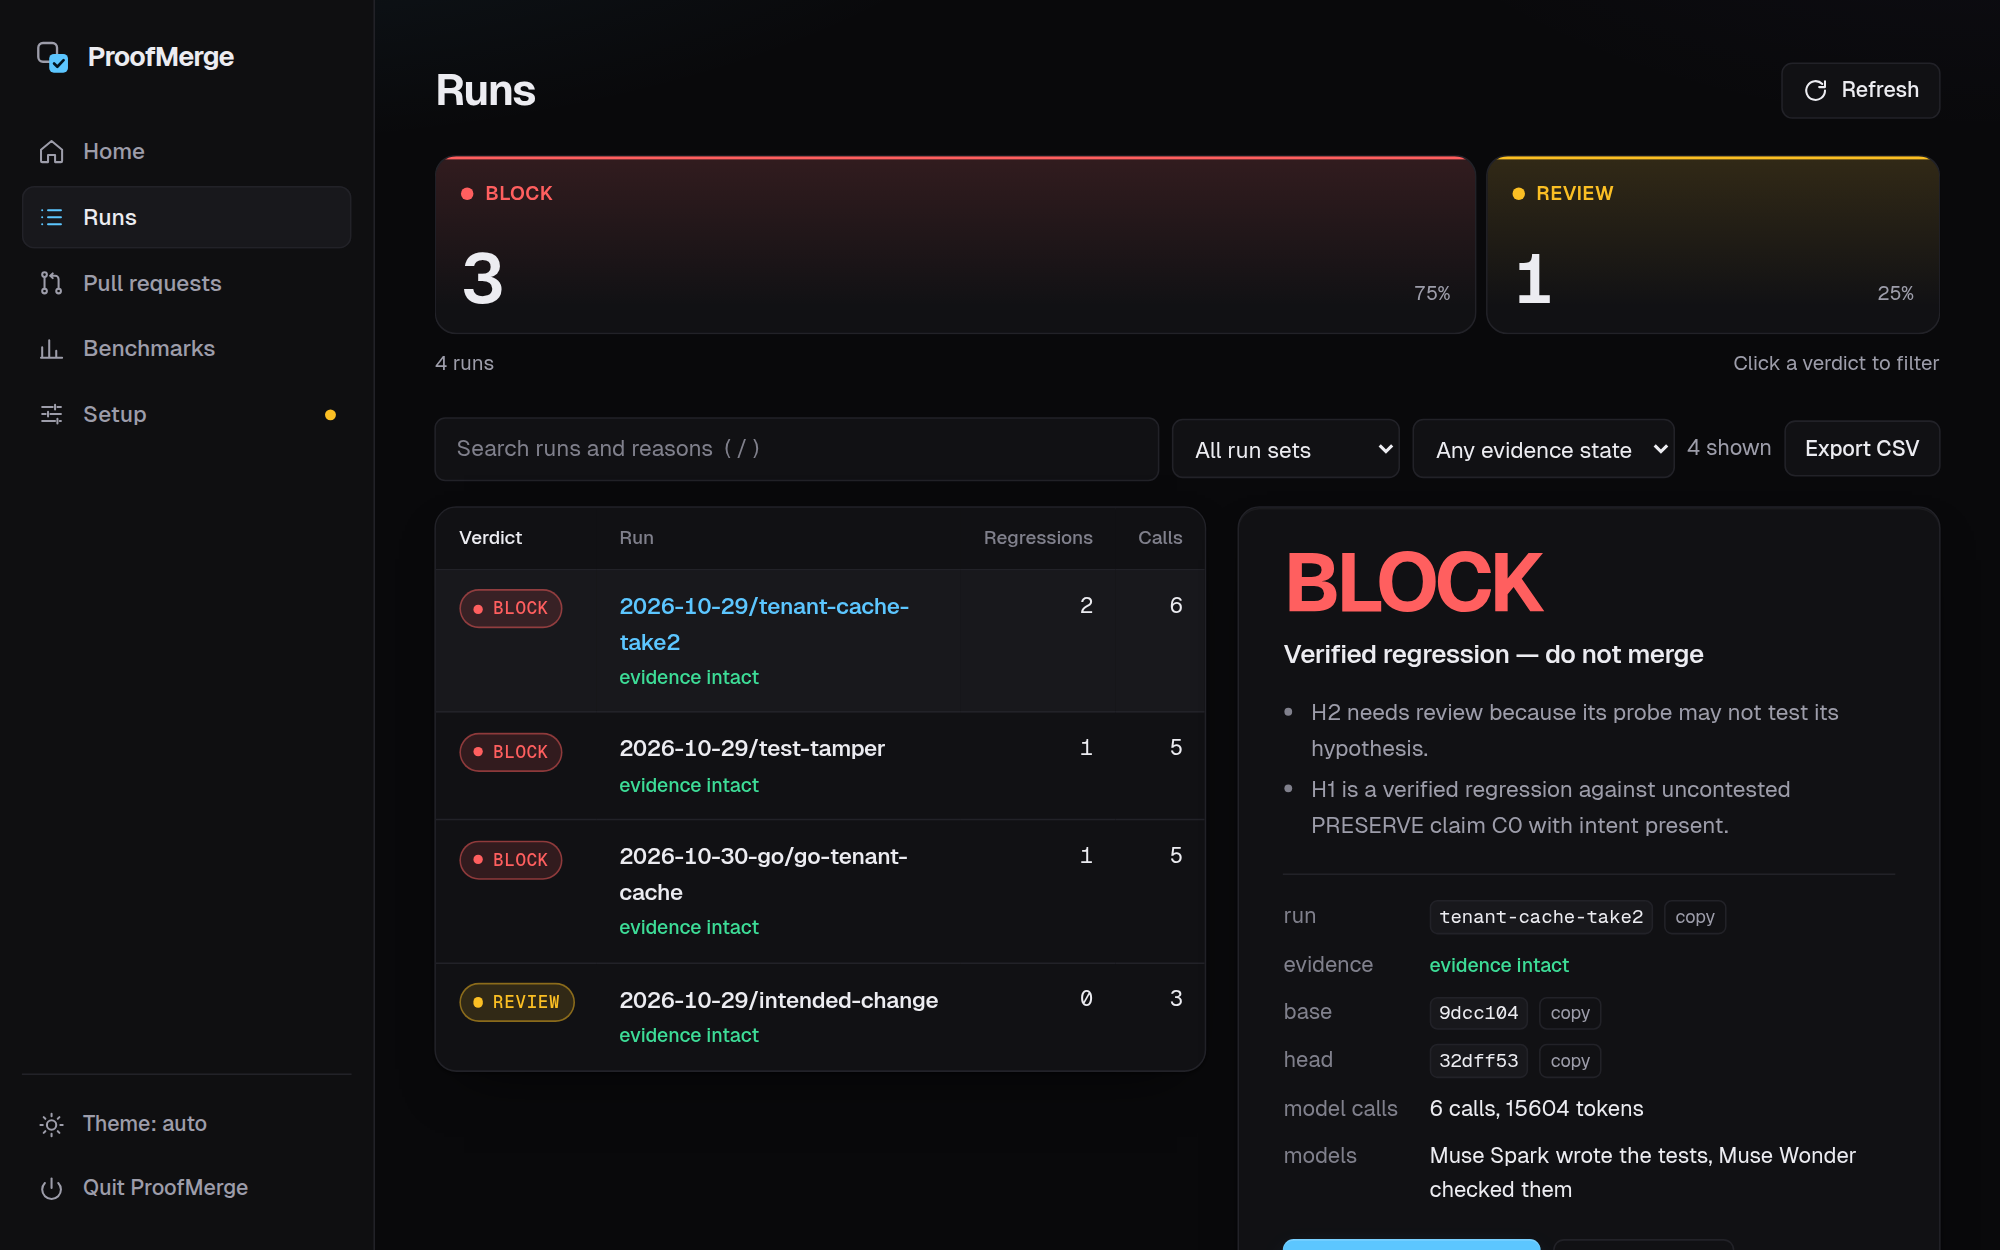
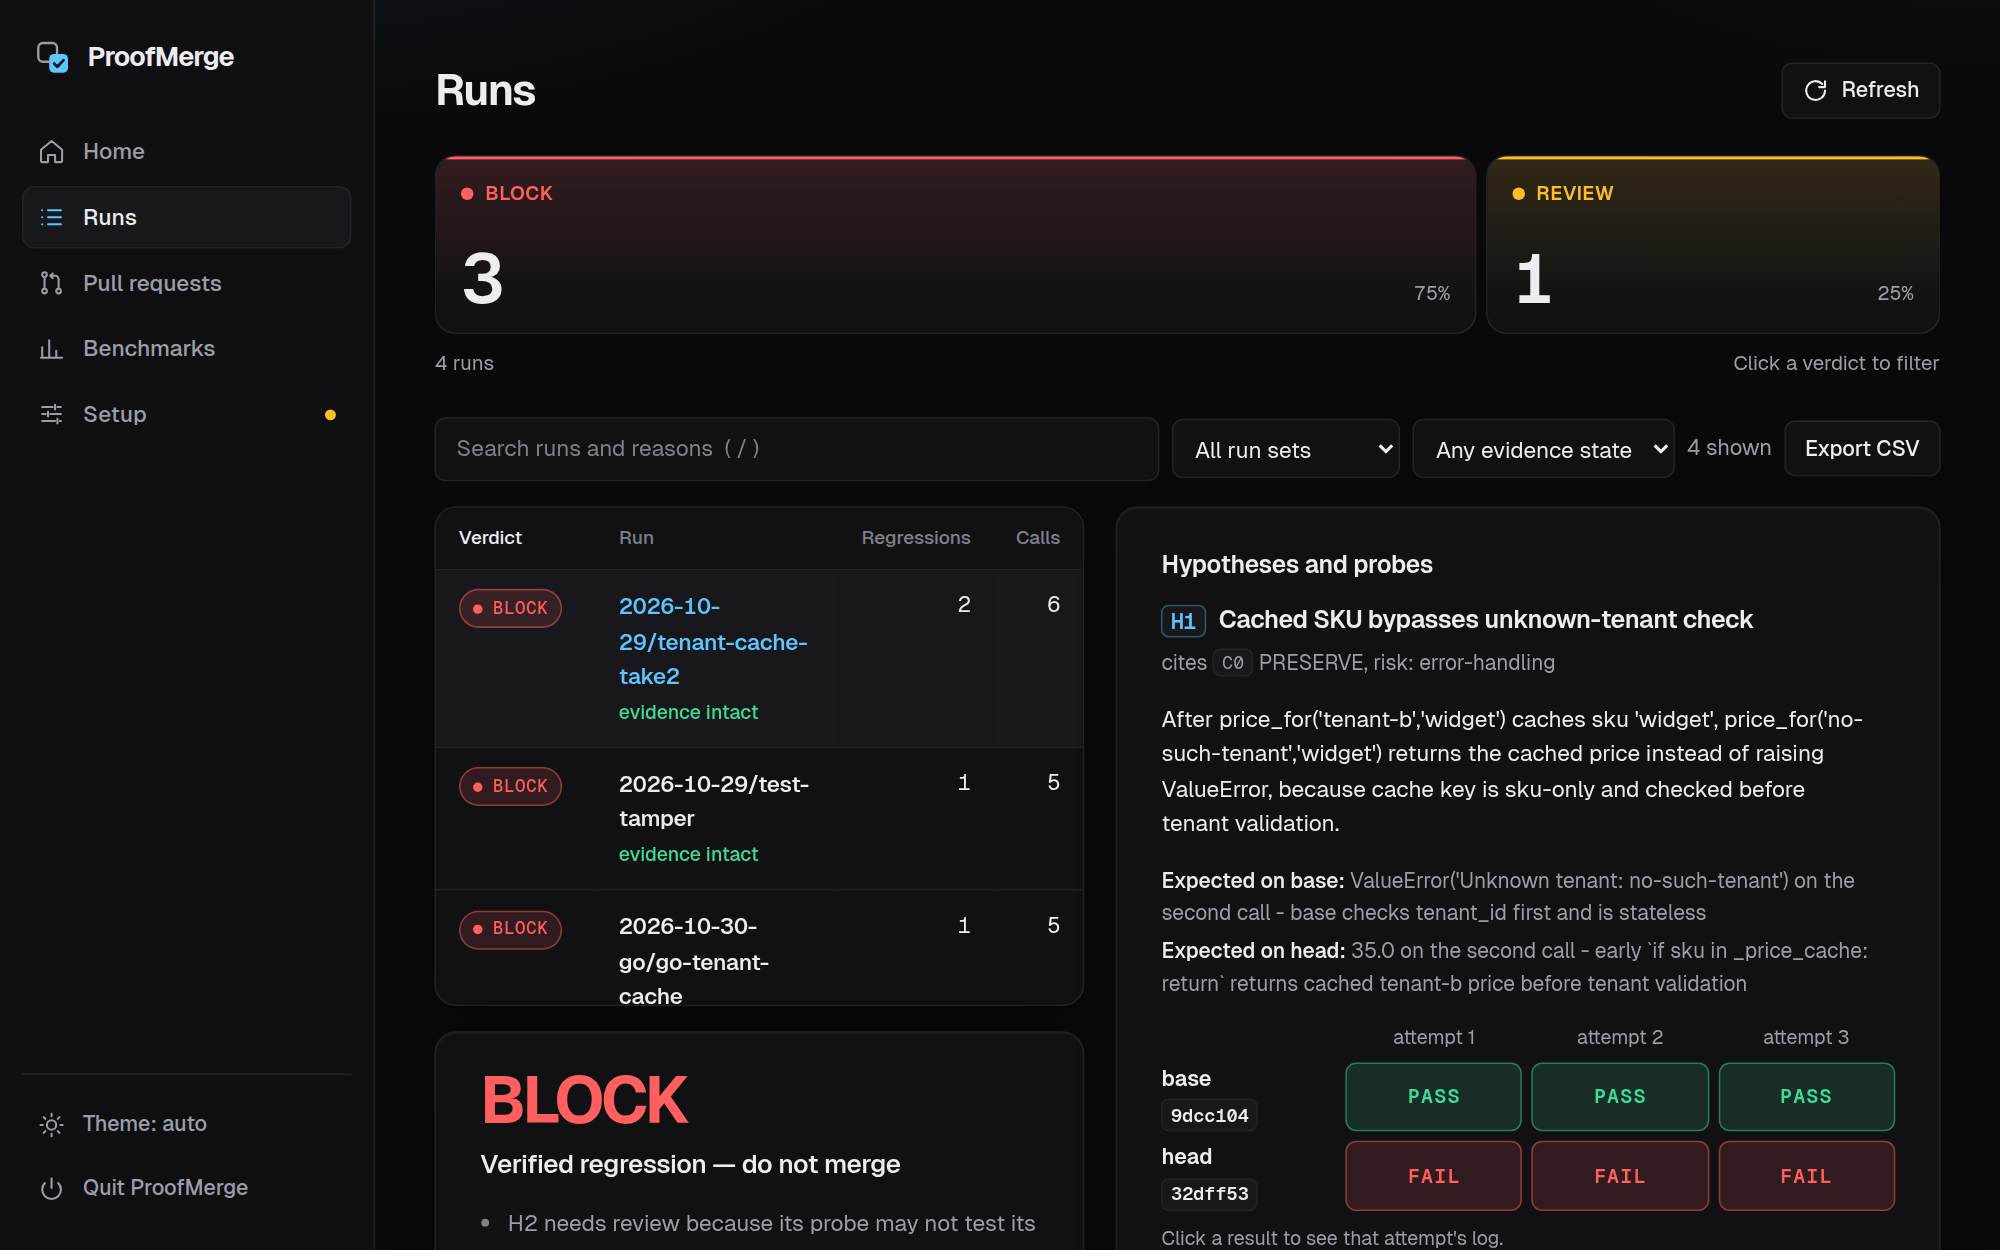
T73: Runs page puts the verdict under the list and the evidence beside it
With a short run list the left half of the Runs page stood empty beside a
long detail. The summary now sits under the list and stays in view; the
evidence takes the right column. Everything stacks below 64rem.

Claude-Session: https://claude.ai/code/session_01YGZU6qzXEgTvzWYzbWXsex

diff --git a/src/proofmerge/dashboard_static/legacy/app.js b/src/proofmerge/dashboard_static/legacy/app.js
@@ -280,7 +280,7 @@
     const models = writer === checker ? `${writer} wrote and checked the tests` : `${writer} wrote the tests, ${checker} checked them`;
     // The id is relative to the dashboard folder, so the command uses the absolute path.
     const replay = `proofmerge replay '${summary.proof_path.replaceAll("'", "'\\''")}'`;
-    return html`<aside class="panel detail" aria-label=${"Run " + id}>
+    return html`<${React.Fragment}><aside class="panel detail" aria-label=${"Run " + id}>
       <div class="detail-head">
         <span class=${"decision " + decision}>${decision}</span>
         <strong>${HEADLINE[decision]}</strong>
@@ -310,6 +310,8 @@
       </div>
       <details class="cli"><summary><${Icon} name="terminal" size=${15} />Terminal command</summary>
         <pre>${replay}</pre><${Copy} text=${replay} label="replay command" /></details>
+    </aside>
+    <section class="panel evidence" aria-label=${"Evidence for run " + id}>
       <h2>Hypotheses and probes</h2>
       ${proof.hypotheses.hypotheses.length ? proof.hypotheses.hypotheses.map((h) => html`
         <${Hypothesis} key=${h.id} h=${h} proof=${proof} probe=${probes[h.id]} failure=${failures[h.id]} logs=${logs || {}} />`)
@@ -325,7 +327,7 @@
         <div>${c.statement}</div>
         ${c.source_quote ? html`<blockquote>${c.source_quote}</blockquote>` : html`<div class="muted">implicit claim — not stated in the intent text</div>`}
       </div>`)}
-    </aside>`;
+    </section><//>`;
   }
 
   function RunsView({ index, selected, onSelect }) {
@@ -389,7 +391,7 @@
         <span class="muted" style=${{ fontSize: ".88rem" }}>${runs.length} shown</span>
         <button class="ghost" type="button" onClick=${exportCsv} disabled=${!runs.length}>Export CSV</button>
       </div>
-      <div class="split">
+      <div class="split runs-split">
         ${runs.length ? html`<${RunsTable} runs=${runs} selected=${selected} onSelect=${pick} sort=${sort} setSort=${setSort} />`
           : html`<div class="panel empty"><strong>No run matches</strong>Change the search or filters.</div>`}
         <${Detail} key=${selected} id=${selected} />

diff --git a/src/proofmerge/dashboard_static/legacy/app.css b/src/proofmerge/dashboard_static/legacy/app.css
@@ -641,3 +641,24 @@ blockquote { margin: .4rem 0; padding: .45rem .8rem; background: var(--raised); 
    the detail shows both. */
 @media (min-width: 64.01rem) and (max-width: 110rem) { .pr-table .hide-sm, .col-shas { display: none; } }
 .pr-table td:last-child { white-space: nowrap; }
+
+/* Runs: the list and the chosen run's verdict share the left column, the evidence takes the
+   right. The verdict stays in view while the evidence scrolls, so neither side runs empty. */
+.runs-split { grid-template-columns: minmax(19rem, 26rem) minmax(0, 1fr);
+  grid-template-areas: "list evidence" "summary evidence"; grid-template-rows: auto 1fr; row-gap: 1rem; }
+.runs-split > :first-child { grid-area: list; }
+.runs-split > .detail { grid-area: summary; position: sticky; top: 1.5rem; align-self: start;
+  max-height: calc(100vh - 3rem); overflow: auto; }
+.runs-split > .evidence { grid-area: evidence; padding: .4rem 1.75rem 1.6rem; min-width: 0; }
+/* The summary shows the SHAs and the call count, so the narrow list keeps verdict, name and regressions. */
+.runs-split .runs { position: static; max-height: 55vh; }
+.runs-split .runs .hide-sm { display: none; }
+.runs-split .detail .decision { font-size: 2.6rem; }
+.evidence > h2:first-child { border-top: 0; margin-top: 1.2rem; padding-top: 0; }
+@keyframes evidence-in { from { opacity: 0; transform: translateY(8px); } to { opacity: 1; transform: none; } }
+.evidence { animation: evidence-in .5s var(--ease) .08s both; }
+@media (max-width: 64rem) {
+  .runs-split { grid-template-columns: minmax(0, 1fr); grid-template-areas: "list" "summary" "evidence"; grid-template-rows: none; }
+  .runs-split > .detail { position: static; max-height: none; }
+  .runs-split .runs { max-height: none; }
+}

diff --git a/BUILDLOG.md b/BUILDLOG.md
@@ -716,3 +716,9 @@ release-stock-guard                  NOT_BLOCK  FAIL       PASS
 - Found while capturing: beside the detail, the Base → head column squeezed run names to a few characters a line at 1280 px. Between 64rem and 110rem that column now hides, as the PR branch column already does; the detail shows both SHAs.
 - The walkthrough video and its GIF were not re-recorded (the recording harness is not in the repository); the README now says they predate the visual refresh.
 - `pytest -q tests/test_dashboard*.py`: all passed. `ruff check src tests`: all checks passed.
+
+### 2026-11-03 — T73 Runs page: verdict under the list, evidence beside it (Claude)
+- Found in the app: with one run, the Runs page was a short list on the left and a long detail on the right, so the left half stood empty for most of the page.
+- The run detail is now two panels in a grid: the summary (verdict, reasons, commits, models, actions) sits under the run list and stays in view while scrolling; the evidence (hypotheses and probes, test-tamper guard, intent claims) takes the right column. The narrow list keeps verdict, name and regressions; the SHAs and the call count are in the summary. Below 64rem everything stacks: list, summary, evidence.
+- Checked in Chrome at 1440×900, 1280×800 and 390×844 with the real Claude run `pr-75-479d672`: no horizontal scroll; after scrolling 1,500 px the summary stays 24 px from the top on both wide sizes. `docs/assets/app-runs.png` re-captured in this layout (copies of the committed demo runs, as in T72).
+- `pytest -q tests/test_dashboard*.py`: all passed. `ruff check src tests`: all checks passed.

diff --git a/README.md b/README.md
@@ -38,7 +38,7 @@ tests; Muse Wonder 1.0 checks Spark's work. [MIT licensed](LICENSE).
 
 ## Use it without a terminal
 
-<img alt="The ProofMerge app in the browser: the Runs page with three BLOCK runs and one REVIEW run, every one marked 'evidence intact', and the selected run's verdict, BLOCK, 'Verified regression — do not merge', with its reasons, commits, model calls and the line 'Muse Spark wrote the tests, Muse Wonder checked them'." src="docs/assets/app-runs.png" width="100%">
+<img alt="The ProofMerge app in the browser: the Runs page. On the left, three BLOCK runs and one REVIEW run, every one marked 'evidence intact', with the selected run's verdict, BLOCK, below the list. On the right, its evidence: hypothesis H1, 'Cached SKU bypasses unknown-tenant check', whose probe passed on base 9dcc104 in all three attempts and failed on head 32dff53 in all three." src="docs/assets/app-runs.png" width="100%">
 
 `proofmerge app` opens ProofMerge in your browser and does everything the
 command line does. It was built for people who never open a terminal:
